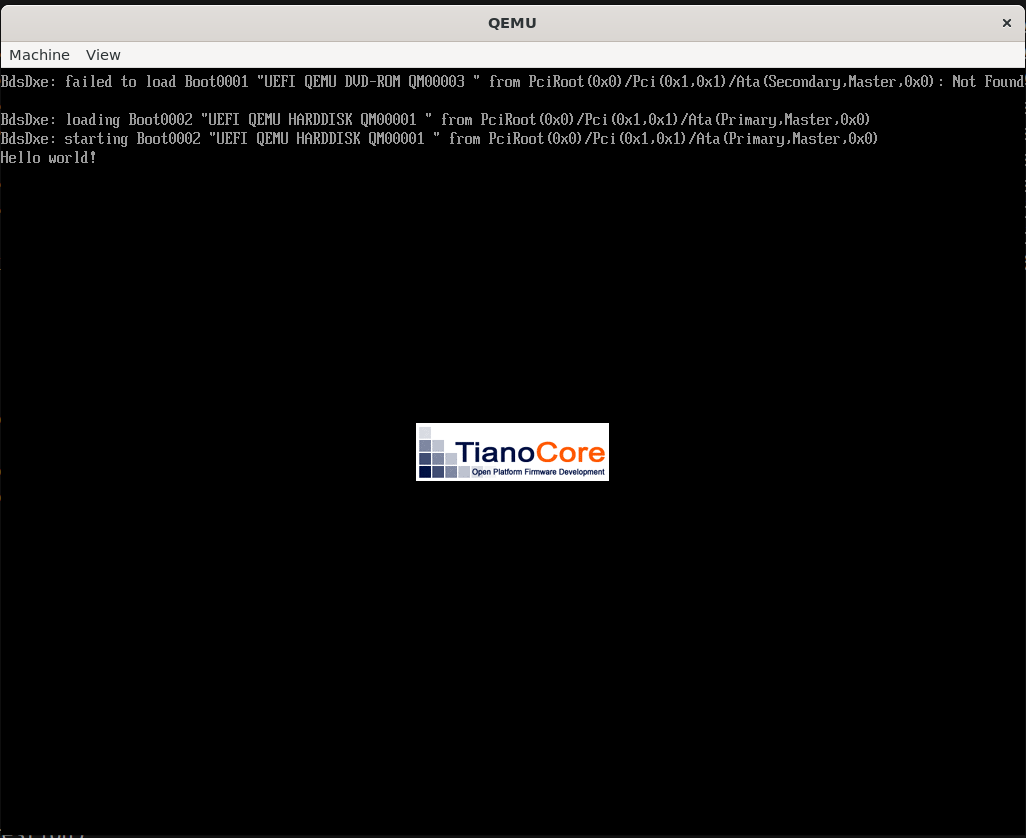
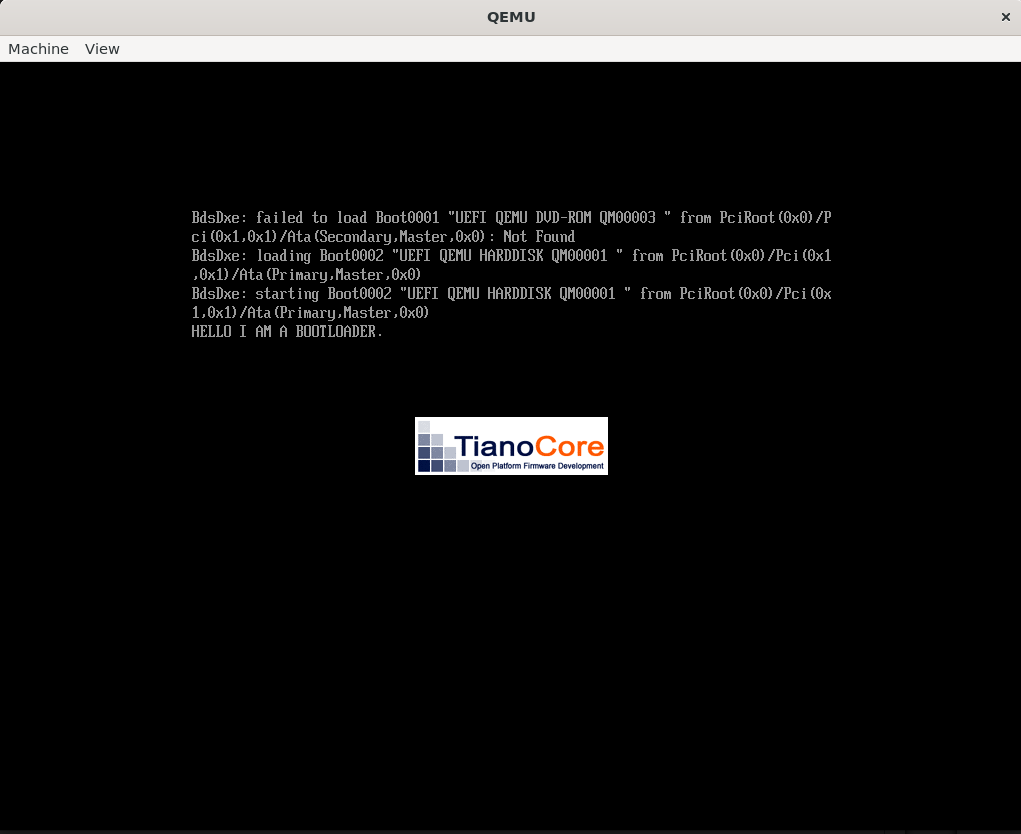
Bootloader Pt 1 Refresh (#4)
* Remove self-indulgent

* Properly categorize bootloader posts lmao

* Backdate intro so it always shows up first

* Update bootloader part 1

Changes described in post.

* Add Git repo link

* Update success image because I foolishly changed the message

diff --git a/writing/bootloader/part-1.md b/writing/bootloader/part-1.md
@@ -11,6 +11,19 @@ Last time, in the [introduction](/writing/bootloader/intro) I went over what a b
 
 In this post, we'll go deeper into what that default boot environment is like, and also get some code running.
 
+<details>
+<summary>March 2026 updates</summary>
+
+This post was originally written in April 2024. Some things have changed since then:
+- `uefi-rs` has deprecated the `SystemTable` argument that's used to access protocols. I've updated the sample code to match.
+- Rust now includes a pre-compiled copy of the standard library for the UEFI target. I've removed the section about enabling `build-std`.
+
+I've also added a link to a GitHub repository with the actual code described in this post - this will hopefully keep me honest while writing.
+
+If you're interested in the previous version, this very post [is also on Github](https://github.com/ktrieu/new-website/blob/master/writing/bootloader/part-1.md). Take a look.
+
+</details>
+
 ## UEFI
 
 UEFI stands for Unified Extensible Firmware Interface, and it provides a standardized low-level interface for your bootloader to talk to the hardware. We’ll be using this to:
@@ -44,13 +57,13 @@ Your `main.rs` file will look like this:
 #![no_std]
 #![no_main]
 
-#[entry]
-fn uefi_main(_handle: Handle, mut system_table: SystemTable<Boot>) -> Status {
-    system_table
-        .stdout()
-        .write_str("Hello world!")
-        .unwrap();
+use core::{fmt::Write};
 
+use uefi::prelude::*;
+
+#[entry]
+fn uefi_main() -> Status {
+    system::with_stdout(|stdout| stdout.write_str("HELLO I AM A BOOTLOADER.").unwrap());
     loop {}
 }
 
@@ -62,9 +75,7 @@ I'll explain line by line:
 
 The `#[entry]` attribute at the top of `uefi_main` marks your function as _the_ main function so `uefi-rs` knows where it is. This allows it to transform it like we mentioned above, and also check if you’ve declared it properly.
 
-The UEFI main function takes two arguments: `_handle` is the UEFI handle of the “loaded image”, i.e., your program. `uefi-rs` uses it, but you won’t need it yourself.
-
-The `system_table` gives you access to what UEFI calls services, which let you interact with the computer. For now, we'll just grab the console output service using `stdout()` , write a fun message, and unwrap the result. After printing, we `loop {}` so you can see the output instead of exiting immediately.
+Finally, there's the actual main function. The first line logs a helpful message and the second one loops forever so our program doesn't immediately terminate.
 
 <details>
 <summary>My VS Code is complaining about tests</summary>
@@ -105,7 +116,7 @@ fn panic(info: &PanicInfo) -> ! {
 }
 ```
 
-There’s really nothing meaningful we can do here since we don’t even have access to the `system_table` to log a message. Such is low-level programming. I promise we’ll have something better here soon.
+For now, it'll do the same as the main function. We'll have something useful to add here later.
 
 Let's add that and try `cargo run` again. Will this work?
 
@@ -142,40 +153,6 @@ target = "x86_64-unknown-uefi"
 (Using this method will cause us some annoying problems, but it’s the only way to do it. Consider this foreshadowing.)
 
 Alright, now can we run it?
-
-## The standard library
-
-No.
-
-```bash
-error[E0531]: cannot find tuple struct or tuple variant `Ok` in this scope
-   --> /home/<your user dir>/.cargo/registry/src/index.crates.io-6f17d22bba15001f/uguid-2.2.0/src/guid.rs:306:13
-    |
-306 |             Ok(g) => g,
-    |             ^^ not found in this scope
-(repeat 8 million times)
-```
-
-We’ve had an oversight: we told Rust there’s no standard library, but never provided anything to replace it. Some parts we can’t replace - file I/O, for example, requires OS support and so we can’t replicate it here. But that error is complaining about `Ok()` which is kind of universal, right? The platonic idea of being OK requires no OS support, presumably. Can we tell Rust we only want those parts?
-
-We can, it turns out. For that, we need to jump back into that `.cargo/config.toml` file and add this:
-
-```bash
-[unstable]
-build-std = ["core", "compiler_builtins"]
-build-std-features = ["compiler-builtins-mem"]
-```
-
-These lines tell Rust to build the standard library from source for your target, including only the basics we need and can support. The line about `compiler-builtins-mem` tells Rust to use its built-in copies of functions like `memcpy` and friends. This needs to be explicitly enabled, because most platforms have their own versions which are better. Again, in UEFI land, we don't get much for free.
-
-As the header says, this is unstable and requires we use Rust's nightly branch, so drop a `rust-toolchain.toml` in the root of your crate and put this in it:
-
-```bash
-[toolchain]
-channel = "nightly"
-```
-
-Ok, now can we run it?
 
 ## Running a UEFI binary
 
@@ -239,6 +216,8 @@ qemu-system-x86_64 --bios ovmf/OVMF.fd -drive file=fat:rw:bootimg/,format=raw
 
 ![Success!](/static/writing/bootloader/part-1/success.png)
 
-Yeah, there’s an error message, but we did it!
+And there's our helpful message! 
+
+If you want to see everything we've done today together, I've put together a copy of our setup [on GitHub](https://github.com/ktrieu/blogloader/tree/part-1). It also has OVMF pre-downloaded, and a Makefile to automate some of the file shuffling we talked about earlier.
 
 Next time: we’ll write some actual code. See you in the next post.
